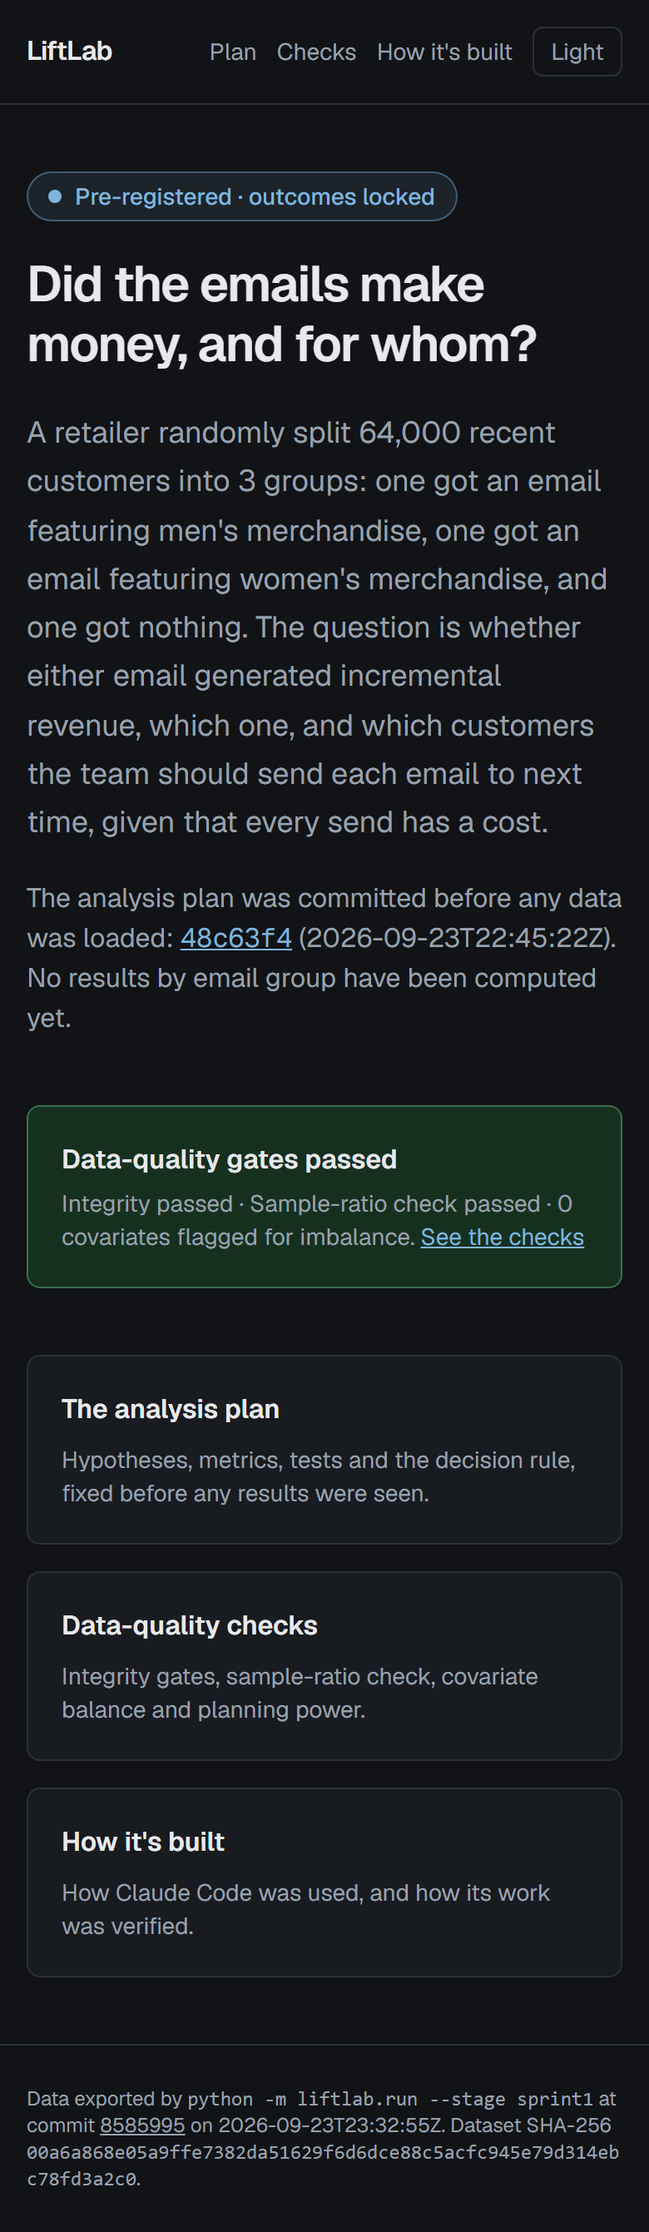
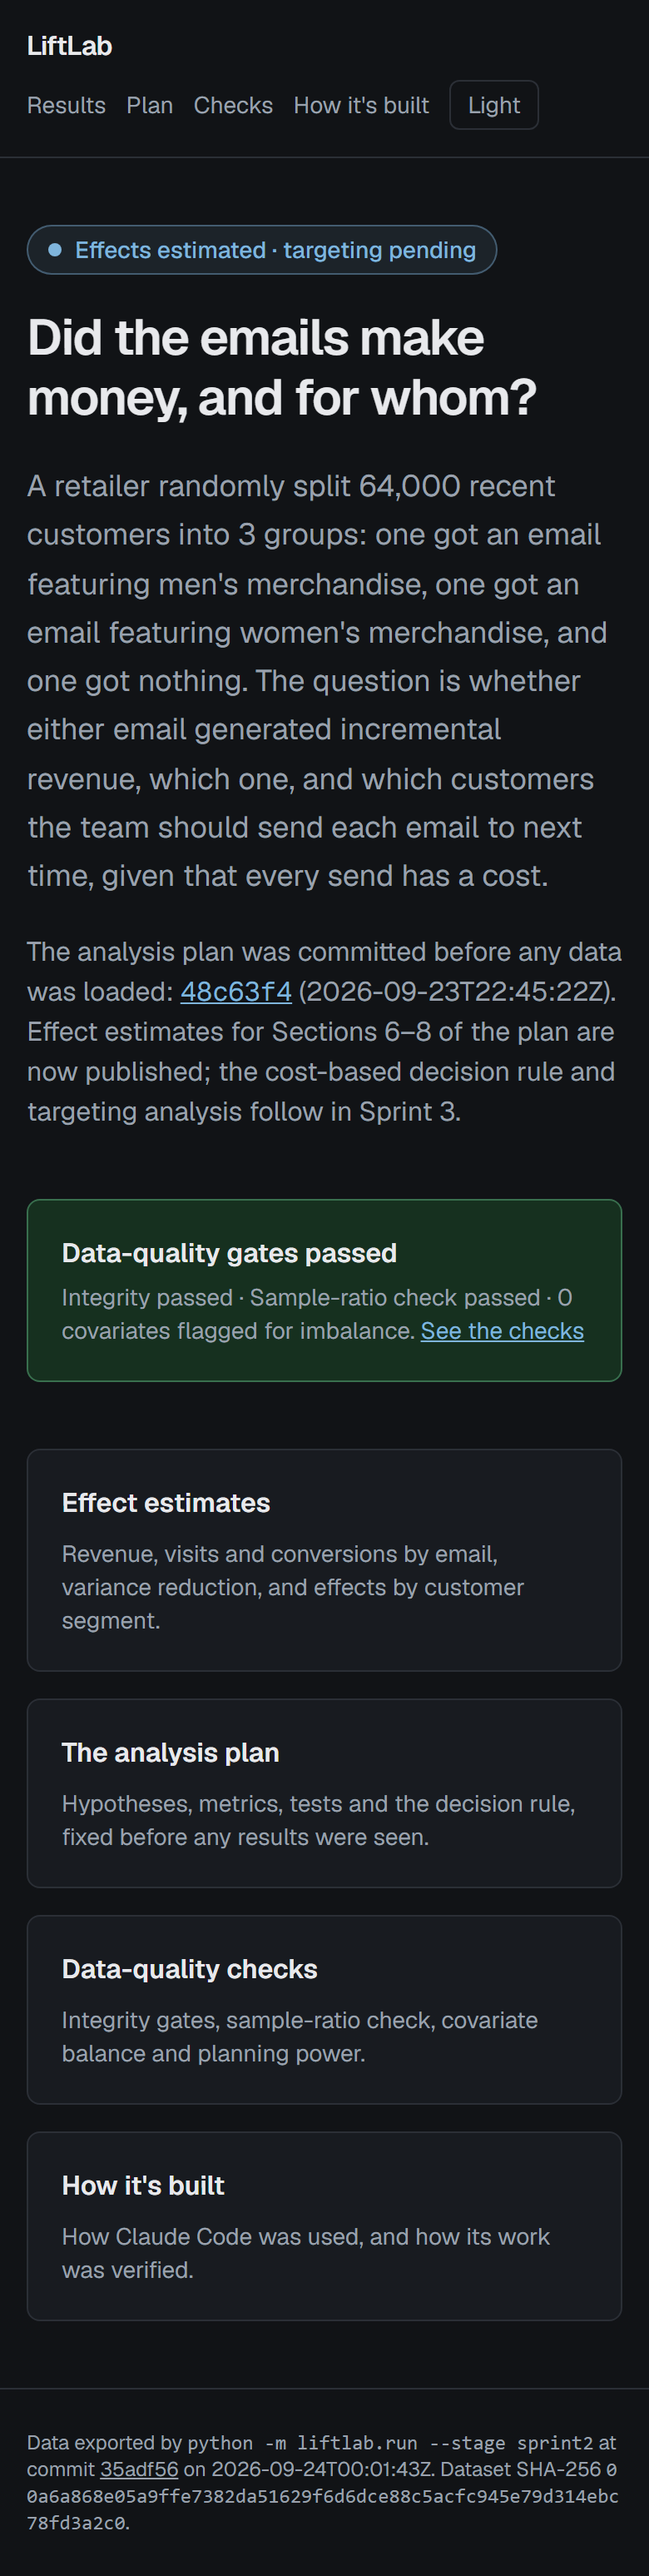
sprint 2 step 9: verification evidence, 390px screenshots incl. /results, README status Sprint 2 of 3

diff --git a/ai-workflow/sprint-2-verification.md b/ai-workflow/sprint-2-verification.md
@@ -1,0 +1,175 @@
+# Sprint 2: verification evidence
+
+Commands run by Claude Code during Sprint 2 (2026-09-23 to 2026-09-24 UTC), with their output pasted as printed. The
+statistics below are copies of values in the committed JSON, generated at `35adf56` and committed in `8c7d7e4`. The
+JSON in `web/public/data/` is the source of truth.
+
+## Timeline (the order is what makes the estimates credible)
+
+| Commit | What | Outcomes visible? |
+|---|---|---|
+| `48c63f4` | Pre-registration (Sprint 1) | No |
+| `77d4a07` | Step 0: preflight, rule 5 wording, SMD corrected, 390 px check | No |
+| `cf44832` | **Outcome unlock**: CLAUDE.md rule 2 lifted for Sections 6–8; rule 9 (no targeting) | No |
+| `7a3e092` | Deviations entry: dimension 1 has three levels, and the Sections 6–8 method clarifications. Written using covariate-only cell counts | No |
+| `35adf56` | `effects.py`, `heterogeneity.py`, tests, `/results` | Yes: first estimates computed while this code was being written |
+| `8c7d7e4` | Exports from a clean tree at `35adf56` | Yes |
+
+No effect estimate was computed before `7a3e092`. The only data inspected between `cf44832` and `7a3e092` were the
+covariate counts of `mens` × `womens`, overall and by arm.
+
+## Environment preflight (Step 0.1)
+
+```
+> py -0p
+ -V:3.13 *        C:\Program Files\Python313\python.exe
+ -V:3.12          C:\Users\HP\AppData\Local\Programs\Python\Python312\python.exe
+ -V:3.11          C:\Users\HP\AppData\Local\Programs\Python\Python311\python.exe
+> node -v               v22.18.0
+> vercel --version      Vercel CLI 58.4.4
+> gh auth status        ✓ Logged in to github.com account emkwambe (keyring); scopes 'gist', 'read:org', 'repo', 'workflow'
+```
+
+## Pipeline
+
+```
+> C:\dev\liftlab-email-experiment\analysis\.venv\Scripts\python.exe -m liftlab.run --stage sprint2
+  "manifest": {
+    "commit_sha": "35adf56815e9cf20c91894cfd1b3af7926c8541e",
+    "working_tree_dirty": false,
[1 lines of base64/hex data omitted]
+    "generated_utc": "2026-09-24T00:01:43Z",
+    "script": "python -m liftlab.run --stage sprint2",
+    "seed": 20260923,
+    "stage": "sprint2"
+  },
+  "summary": {
+    "integrity_passed": true,
+    "srm_p_value": 0.9036929575604196,
+    "srm_halt": false,
+    "balance_n_flagged": 0,
+    "halted": false,
+    "effects_agreement_passed": true,
+    "cuped_signs_agree": true,
+    "heterogeneity_n_tests": 8,
+    "heterogeneity_n_reject_holm": 0
+  }
+exit=0
+```
+
+## Tests
+
+```
+> C:\dev\liftlab-email-experiment\analysis\.venv\Scripts\python.exe -m pytest C:\dev\liftlab-email-experiment\analysis\tests -q
+78 passed in 15.10s
+```
+
+What the Sprint 2 tests check independently (Step 6):
+- **DuckDB SQL from the raw CSV:** arm mean spend, the H1 and H2 differences, and visit and conversion rates and counts all match the exported values to 1e-9.
+- **Welch:** matches `scipy.stats.ttest_ind(equal_var=False)` and statsmodels `CompareMeans.ttest_ind(usevar="unequal")` (t, df, p and CI), on synthetic data and on the real data.
+- **Newcombe method 10:** reproduces Newcombe (1998) Table II, 56/70 vs 48/80 → (0.0524, 0.3339) and 9/10 vs 3/10 → (0.1705, 0.8090), and matches statsmodels `confint_proportions_2indep(method="newcomb")`.
+- **Holm:** matches a hand-computed example (0.01, 0.04, 0.03) → (0.03, 0.06, 0.06) and statsmodels `multipletests`.
+- **CUPED:** θ equals the OLS slope of spend on history, on synthetic data and on the real data (rel. 1e-9).
+- **Bootstrap:** the 95% percentile CI covers a known difference (0.5) in at least 34 of 40 synthetic replications, and the exported bootstrap CIs reproduce exactly when re-run.
+- **Heterogeneity:**
+  - Segment effects equal within-segment differences in means.
+  - The joint Wald χ² matches statsmodels `wald_test`.
+  - Segment SEs match `t_test` on the T + T×segment contrast, which includes the covariance term.
+- **Outcome lock and rule 9:**
+  - By-arm outcomes appear only in the four Sprint 2 files.
+  - No unknown export exists.
+  - No export key or code file contains targeting, policy, holdout or split patterns.
+
+## Results as exported (dollars per customer unless stated)
+
+**Primary (revenue per customer).** Holm family = H1, H2. The agreement check requires the bootstrap ÷ analytic width
+ratio to be within 0.8–1.25, with the same sign pattern.
+
+| | Contrast | Difference | Welch 95% CI | Bootstrap 95% CI | Width ratio | p | Holm p | Relative lift (95% CI) |
+|---|---|---|---|---|---|---|---|---|
+| H1 | Mens E-Mail vs No E-Mail | 0.7698 | [0.4851, 1.0545] | [0.4934, 1.0596] | 0.9945 | 1.16e-07 | 2.33e-07 | +1.179 [+0.544, +1.814] |
+| H2 | Womens E-Mail vs No E-Mail | 0.4244 | [0.1690, 0.6799] | [0.1712, 0.6821] | 1.0001 | 0.00113 | 0.00113 | +0.650 [+0.149, +1.151] |
+| H3 | Mens E-Mail vs Womens E-Mail | 0.3454 | [0.0326, 0.6583] | [0.0370, 0.6663] | 1.0057 | 0.0305 | outside family | +0.321 [−0.012, +0.653] |
+
+All three agreement checks pass; every interval lies entirely above zero in both methods.
+
+**Secondary (difference in proportions, Newcombe 95% CI, Holm within metric).**
+
+| Metric | | Difference | Newcombe 95% CI | p | Holm p |
+|---|---|---|---|---|---|
+| Visit rate | H1 | 0.07659 | [0.06995, 0.08323] | 5.69e-112 | 1.14e-111 |
+| Visit rate | H2 | 0.04523 | [0.03889, 0.05157] | 3.18e-44 | 3.18e-44 |
+| Conversion rate | H1 | 0.00681 | [0.00501, 0.00864] | 1.52e-13 | 3.05e-13 |
+| Conversion rate | H2 | 0.00311 | [0.00150, 0.00475] | 0.000157 | 0.000157 |
+
+Spend among converters is exported as descriptive only (`descriptive_only: true`), with no test or interval.
+
+**CUPED.** θ = 0.0012754870330541766. Variance reduction: No E-Mail 0.0044%, Mens E-Mail 0.0599%, Womens E-Mail 0.0541%.
+Adjusted H1 is 0.7673 [0.4827, 1.0520] and adjusted H2 is 0.4223 [0.1669, 0.6777]. The signs agree with the
+unadjusted estimates, which remain primary. The near-zero reduction was checked independently: pooled corr(spend,
+history) = 0.02173, and each arm's reduction is at or below its within-arm r².
+
+**Heterogeneity (joint Wald χ², HC3; Holm across 8).**
+
+| Arm | Dimension | χ² | df | p | Holm p | Rejects |
+|---|---|---|---|---|---|---|
+| Mens E-Mail | prior_merchandise | 2.95 | 2 | 0.228 | 1.000 | no |
+| Mens E-Mail | newbie | 1.73 | 1 | 0.189 | 1.000 | no |
+| Mens E-Mail | channel | 2.22 | 2 | 0.330 | 1.000 | no |
+| Mens E-Mail | zip_code | 0.05 | 2 | 0.977 | 1.000 | no |
+| Womens E-Mail | prior_merchandise | 2.14 | 2 | 0.343 | 1.000 | no |
+| Womens E-Mail | newbie | 5.62 | 1 | 0.018 | 0.142 | no |
+| Womens E-Mail | channel | 3.58 | 2 | 0.167 | 1.000 | no |
+| Womens E-Mail | zip_code | 3.08 | 2 | 0.215 | 1.000 | no |
+
+0 of 8 interaction tests survive Holm correction. Segment estimates with CIs and sample sizes are in `heterogeneity.json`.
+
+## Production smoke test
+
+```
+> npm --prefix C:\Dev\liftlab-email-experiment\web run smoke
+Smoke test against https://liftlab-email-experiment.vercel.app
+PASS  GET / returns 200  (status 200)
+PASS  GET /plan returns 200  (status 200)
+PASS  GET /checks returns 200  (status 200)
+PASS  GET /how-its-built returns 200  (status 200)
+PASS  GET /results returns 200  (status 200)
+PASS  manifest.json loads  (status 200)
+PASS  manifest dataset SHA-256 matches docs/data-source.md  (deployed 00a6a868e05a…, documented 00a6a868e05a…)
+PASS  srm.json has a numeric p-value  (p_value 0.9036929575604196)
+PASS  effects_primary.json H1 has a numeric Holm-adjusted p-value  (p_holm 2.3276299364509635e-7)
+PASS  effects_primary.json H2 has a numeric Holm-adjusted p-value  (p_holm 0.0011293971023632473)
+PASS  effects_primary.json manifest dataset SHA-256 matches docs/data-source.md  (status 200, 00a6a868e05a…)
+PASS  effects_secondary.json manifest dataset SHA-256 matches docs/data-source.md  (status 200, 00a6a868e05a…)
+PASS  cuped.json manifest dataset SHA-256 matches docs/data-source.md  (status 200, 00a6a868e05a…)
+PASS  heterogeneity.json manifest dataset SHA-256 matches docs/data-source.md  (status 200, 00a6a868e05a…)
+14/14 checks passed
+```
+
+## 390 px screenshots (Playwright, 390×844, mobile emulation, light and dark)
+
+```
+> npm --prefix C:\Dev\liftlab-email-experiment\web run screenshots      (against production)
+PASS  / [light] status 200, scrollWidth 390 / clientWidth 390, clipped scroll boxes 0 -> home-390-light.png
+PASS  /plan [light] status 200, scrollWidth 390 / clientWidth 390, clipped scroll boxes 0 -> plan-390-light.png
+PASS  /checks [light] status 200, scrollWidth 390 / clientWidth 390, clipped scroll boxes 0 -> checks-390-light.png
+PASS  /how-its-built [light] status 200, scrollWidth 390 / clientWidth 390, clipped scroll boxes 0 -> how-its-built-390-light.png
+PASS  /results [light] status 200, scrollWidth 390 / clientWidth 390, clipped scroll boxes 0 -> results-390-light.png
+PASS  / [dark] status 200, scrollWidth 390 / clientWidth 390, clipped scroll boxes 0 -> home-390-dark.png
+PASS  /plan [dark] status 200, scrollWidth 390 / clientWidth 390, clipped scroll boxes 0 -> plan-390-dark.png
+PASS  /checks [dark] status 200, scrollWidth 390 / clientWidth 390, clipped scroll boxes 0 -> checks-390-dark.png
+PASS  /how-its-built [dark] status 200, scrollWidth 390 / clientWidth 390, clipped scroll boxes 0 -> how-its-built-390-dark.png
+PASS  /results [dark] status 200, scrollWidth 390 / clientWidth 390, clipped scroll boxes 0 -> results-390-dark.png
+```
+
+Screenshots are in `ai-workflow/evidence/sprint-2/`. Claude Code also reviewed them visually; the defects found and
+fixed are in the correction log.
+
+## Other checks
+
+- Chart palette (series 1 and 2, blue and orange) validated with the dataviz validator: all checks pass in light mode
+  (surface `#ffffff`, worst CVD ΔE 24.7) and dark mode (surface `#181b20`, worst CVD ΔE 26.8). The bootstrap and
+  adjusted series are also dashed, as a second encoding.
+- Deployed `/` shows "Effects estimated · targeting pending", and deployed `/results` shows the Sprint 3 note.
+- Sweep of tracked code outside `docs/`, `ai-workflow/` and tests for `train_test_split`, `StratifiedShuffleSplit`,
+  `KFold`, `GradientBoost`, `qini`, `uplift_at_k`, `holdout` and `TwoModels`: none found.

diff --git a/README.md b/README.md
@@ -6,23 +6,23 @@
 - **Pre-registration commit:** [`48c63f40ef275432fc9464b0d2ce107657270982`](https://github.com/emkwambe/liftlab-email-experiment/commit/48c63f40ef275432fc9464b0d2ce107657270982). The analysis plan, project rules and Sprint 1 brief were committed before any data loader existed. The full SHA is also exported in [`web/public/data/manifest.json`](web/public/data/manifest.json), and a test checks that this commit precedes every commit touching the loader.
 - **Dataset:** Kevin Hillstrom's MineThatData E-Mail Analytics and Data Mining Challenge (2008). Provenance, hashes and the check against the original file are in [`docs/data-source.md`](docs/data-source.md).
 
-## Status: Sprint 1 of 3
+## Status: Sprint 2 of 3
 
 | Sprint | Scope | State |
 |---|---|---|
-| 1 | Pre-registration, data-quality gates, first deploy | Done: gates published, **outcomes still locked** |
-| 2 | Primary and secondary effects, CUPED, heterogeneous effects | Not started |
+| 1 | Pre-registration, data-quality gates, first deploy | Done |
+| 2 | Primary and secondary effects, CUPED, heterogeneous effects | Done: estimates published, **targeting still locked** |
 | 3 | Uplift targeting model, decision rule, final readout | Not started |
 
-No outcome (visits, conversions, spend) has been compared across email groups yet. The gate results are on [/checks](https://liftlab-email-experiment.vercel.app/checks), and every number there is read from the JSON in [`web/public/data/`](web/public/data/).
+Outcomes were unlocked for plan Sections 6–8 in commit `cf44832` (`outcome unlock: sections 6-8 (sprint 2)`). The remaining method choices were fixed in the plan's Deviations section in `7a3e092`, before any estimate was computed. Effect estimates are on [/results](https://liftlab-email-experiment.vercel.app/results) and the data-quality gates on [/checks](https://liftlab-email-experiment.vercel.app/checks). Every number on both pages is read from the JSON in [`web/public/data/`](web/public/data/). No targeting model, targeting rule or holdout split exists yet; those are Sprint 3.
 
 ## How this was built with Claude Code
 
 The project doubles as a record of AI-assisted analysis that can be checked:
 
-- **Plan in chat, execute in Claude Code, verify by tests.** Each sprint is specified in a sprint file ([`ai-workflow/sprint-1.md`](ai-workflow/sprint-1.md)), which Claude Code carries out under the binding rules in [`CLAUDE.md`](CLAUDE.md): no hand-typed numbers, an outcome lock until Sprint 2, a manifest on every export, and one command per stage.
+- **Plan in chat, execute in Claude Code, verify by tests.** Each sprint is specified in a sprint file ([`sprint-1.md`](ai-workflow/sprint-1.md), [`sprint-2.md`](ai-workflow/sprint-2.md)), which Claude Code carries out under the binding rules in [`CLAUDE.md`](CLAUDE.md): no hand-typed numbers, an outcome lock lifted only section by section, no targeting before Sprint 3, a manifest on every export, and one command per stage.
 - **[Correction log](ai-workflow/correction-log.md).** Every error that Claude (in chat or in Claude Code) made and that a test, a check or a review caught is recorded, committed together with its fix.
-- **[Verification evidence](ai-workflow/sprint-1-verification.md).** The exact commands run at the end of the sprint and their output.
+- **Verification evidence** ([Sprint 1](ai-workflow/sprint-1-verification.md), [Sprint 2](ai-workflow/sprint-2-verification.md)): the exact commands run and their output. The 390 px screenshots are in [`ai-workflow/evidence/`](ai-workflow/evidence/).
 - **The locked plan** is [`docs/analysis-plan.md`](docs/analysis-plan.md). Its body is never edited; departures go in its Deviations section.
 
 ## Reproduce
@@ -35,9 +35,10 @@ py -3.12 -m venv C:\dev\liftlab-email-experiment\analysis\.venv
 C:\dev\liftlab-email-experiment\analysis\.venv\Scripts\python.exe -m pip install -r C:\dev\liftlab-email-experiment\analysis\requirements.txt
 C:\dev\liftlab-email-experiment\analysis\.venv\Scripts\python.exe -m pip install -e C:\dev\liftlab-email-experiment\analysis
 
-# Regenerate every Sprint 1 number (downloads the dataset if absent, halts if its SHA-256
-# does not match docs\data-source.md) and write JSON to web\public\data
-C:\dev\liftlab-email-experiment\analysis\.venv\Scripts\python.exe -m liftlab.run --stage sprint1
+# Regenerate every published number and write JSON to web\public\data. Stages are cumulative:
+# sprint2 also regenerates the Sprint 1 exports. Downloads the dataset if absent; halts if its
+# SHA-256 does not match docs\data-source.md.
+C:\dev\liftlab-email-experiment\analysis\.venv\Scripts\python.exe -m liftlab.run --stage sprint2
 
 # Tests
 C:\dev\liftlab-email-experiment\analysis\.venv\Scripts\python.exe -m pytest C:\dev\liftlab-email-experiment\analysis\tests -q
@@ -49,6 +50,7 @@ C:\dev\liftlab-email-experiment\analysis\.venv\Scripts\python.exe -m liftlab.loa
 npm --prefix C:\dev\liftlab-email-experiment\web install
 npm --prefix C:\dev\liftlab-email-experiment\web run build
 npm --prefix C:\dev\liftlab-email-experiment\web run smoke
+npm --prefix C:\dev\liftlab-email-experiment\web run screenshots   # 390 px device-emulated screenshots
 ```
 
 ## Security note
